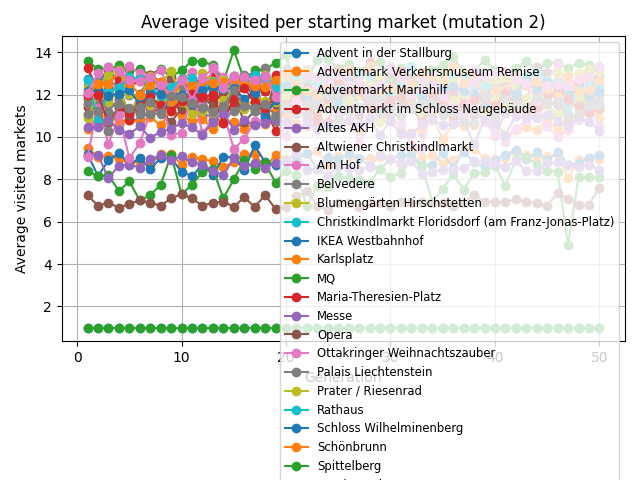
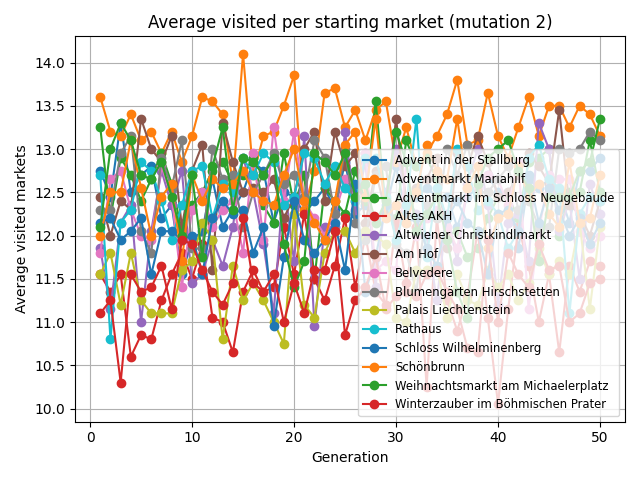
added graph of christmasmarkets

diff --git a/src/main.py b/src/main.py
@@ -161,9 +161,12 @@ def test_1(mutation: int,
     # ------------------------------------------------------------------
     # 6) Plot avg visited per starting market over generations
     # ------------------------------------------------------------------
+    # Filter to only top 50% of markets (final generation result)
+    top_market_names = [m for m, _ in top_markets]
+
     plt.figure()
     for market, series in avg_visited_history.items():
-        if series:  # only plot markets that have data
+        if market in top_market_names and series:
             gens = range(1, len(series) + 1)
             plt.plot(gens, series, marker='o', label=market)
     plt.xlabel('Generation')
@@ -185,7 +188,7 @@ def test_1(mutation: int,
     # ------------------------------------------------------------------
     plt.figure()
     for market, series in max_visited_history.items():
-        if series:  # only plot markets that have data
+        if market in top_market_names and series:
             gens = range(1, len(series) + 1)
             plt.plot(gens, series, marker='o', label=market)
     plt.xlabel('Generation')

diff --git a/data/graph.py b/data/graph.py
@@ -1,0 +1,39 @@
+import pandas as pd
+import networkx as nx
+import matplotlib.pyplot as plt
+import os
+
+# 1. Load your CSV (same folder as this file)
+df = pd.read_csv("data/datapairwise_travel_times_simplified.csv")
+
+# (Optional) filter edges, e.g. only walking connections
+# df = df[df["mode"] == "walking"]
+
+# 2. Build a directed graph from the edge list
+G = nx.from_pandas_edgelist(
+    df,
+    source="origin",
+    target="destination",
+    edge_attr=True,
+    create_using=nx.DiGraph()
+)
+
+# 3. Layout and plot
+plt.figure(figsize=(10, 10))
+pos = nx.spring_layout(G, seed=42)
+
+nx.draw(
+    G,
+    pos,
+    with_labels=True,
+    node_size=800,
+    font_size=8,
+    arrows=True
+)
+
+# Save plot to /plots folder
+os.makedirs("plots", exist_ok=True)
+plt.savefig("plots/graph_connections.png", dpi=300, bbox_inches="tight")
+
+plt.tight_layout()
+plt.show()
